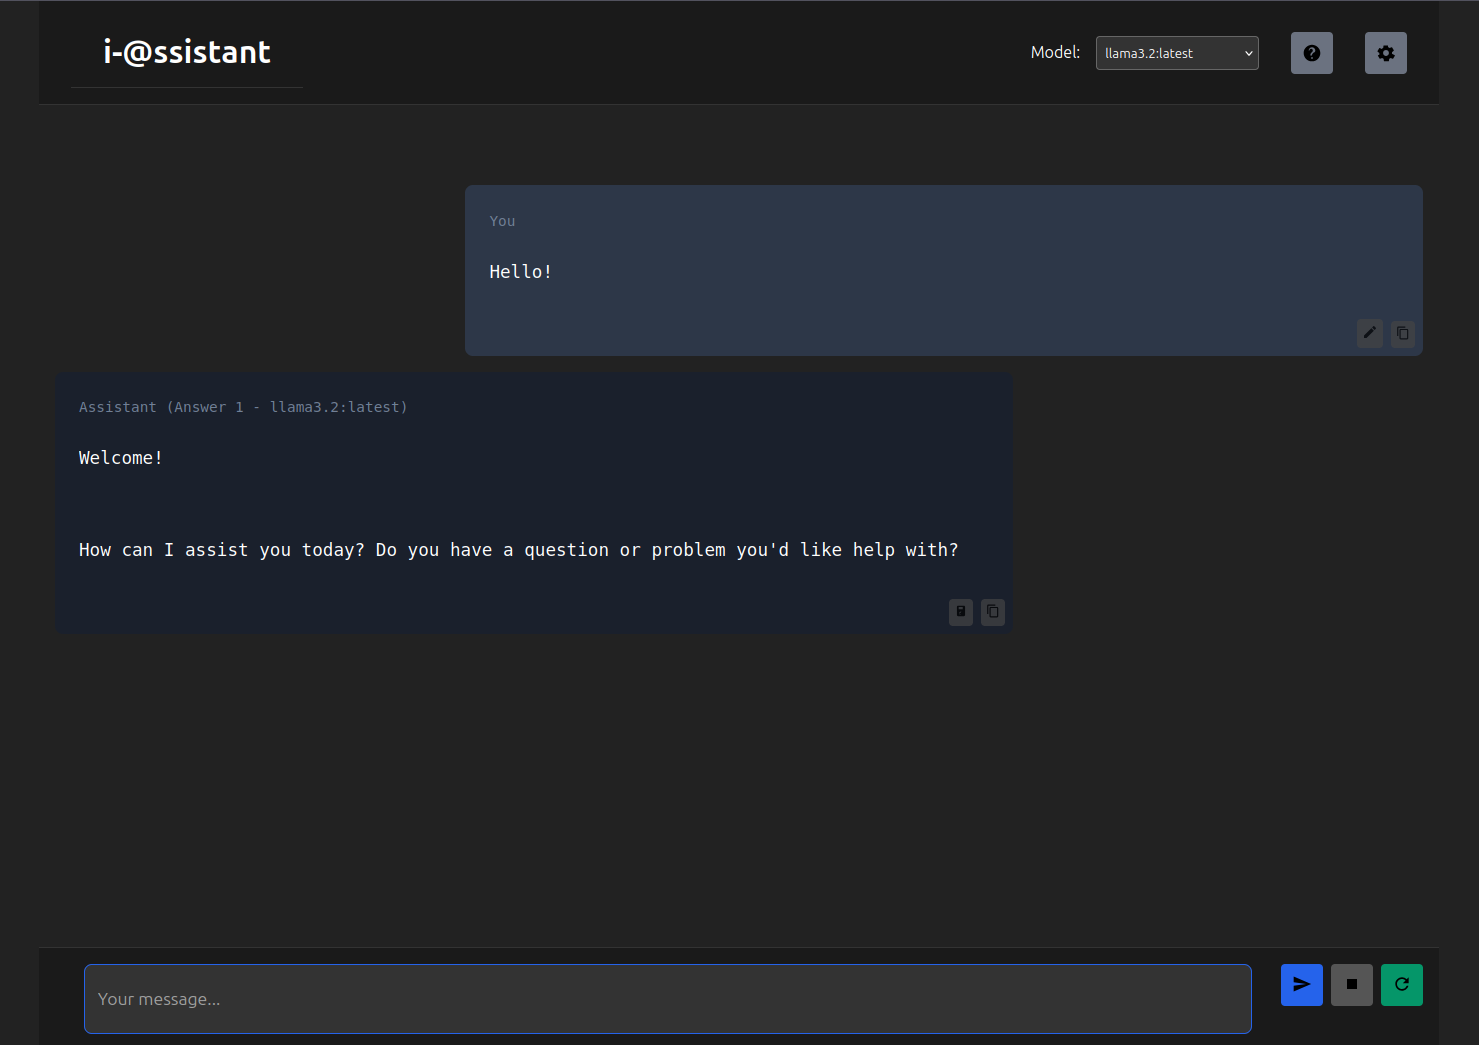
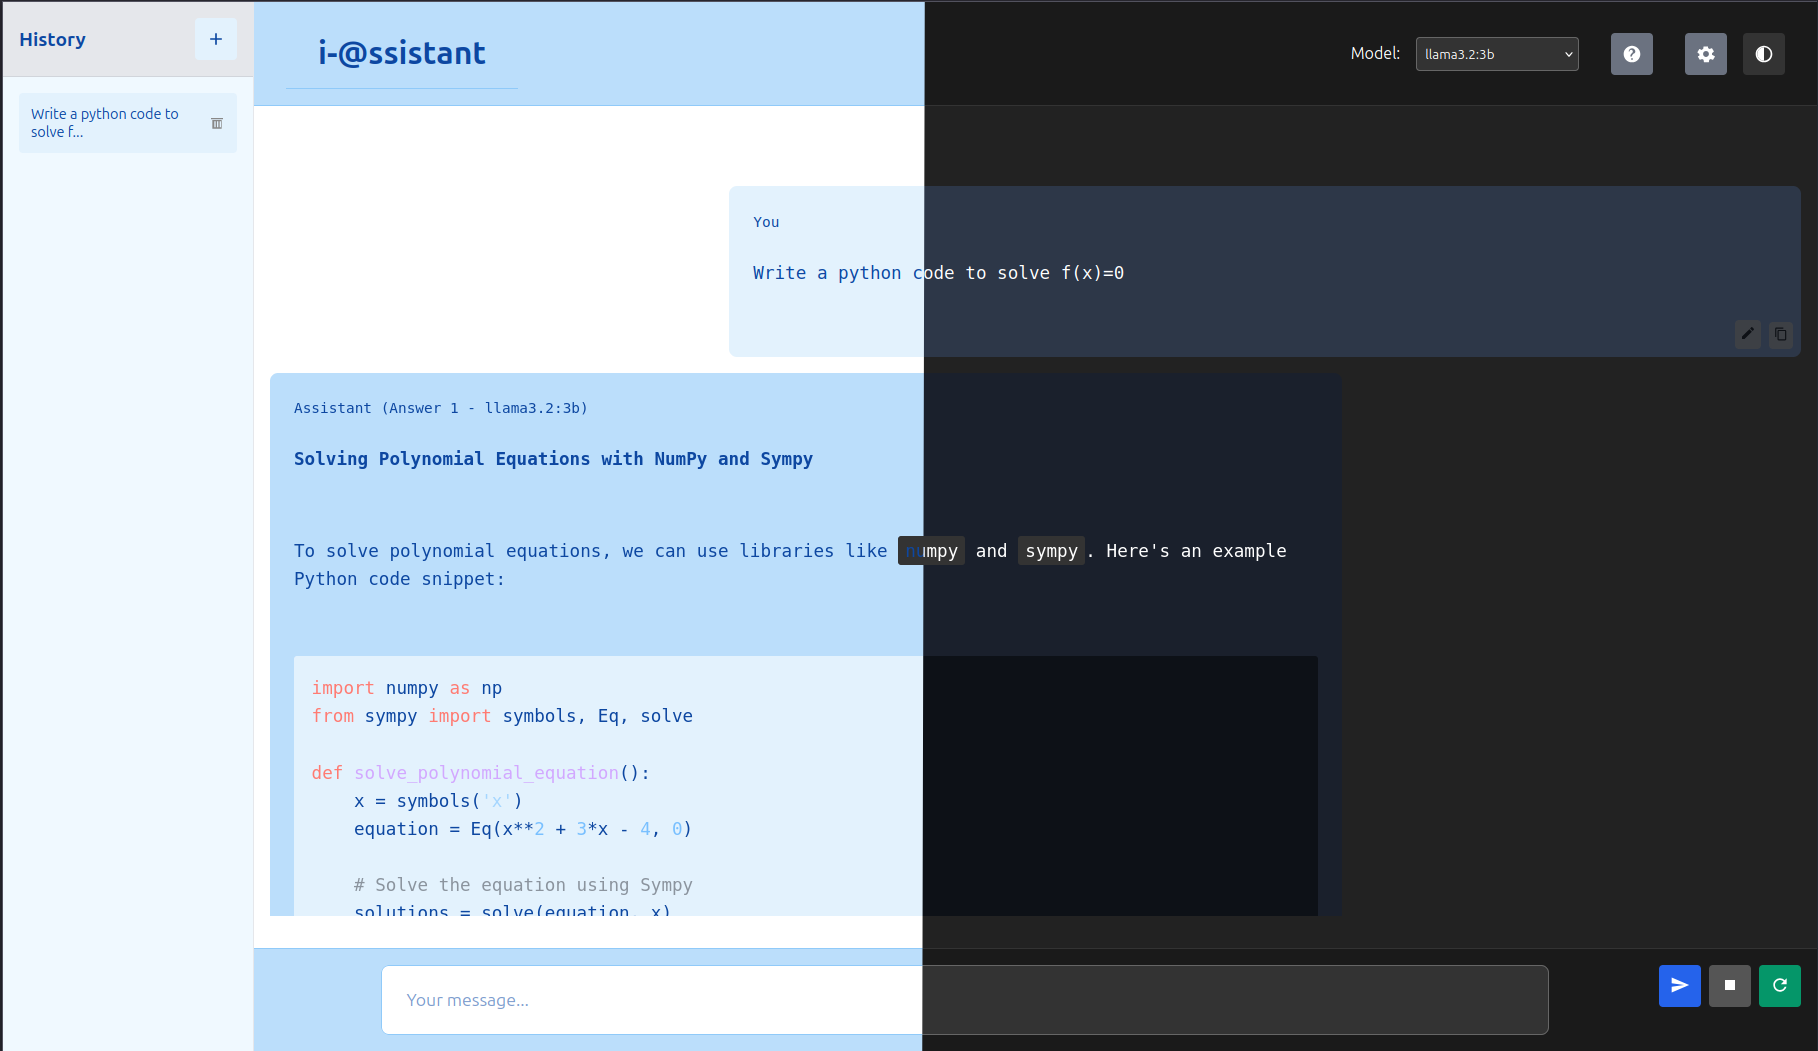
Update README to include chat history feature and dark/light mode information

diff --git a/README.md b/README.md
@@ -13,6 +13,8 @@ i-@ssistant serves as a graphical interface for [Ollama](https://ollama.com/) us
 - Settings for customization
 - Copy and paste functionality
 - Save answers to a text/markdown file
+- Save chat history (in progress)
+- Dark/light mode
 
 ## Installation
 
@@ -31,10 +33,10 @@ cd i-assistant
 ### Install Dependencies
 
 ```bash
-npm install
 npm install express
 npm install sqlite3
 npm install ollama
+npm install crypto-js
 ```
 
 ### Install Ollama and its Modules
